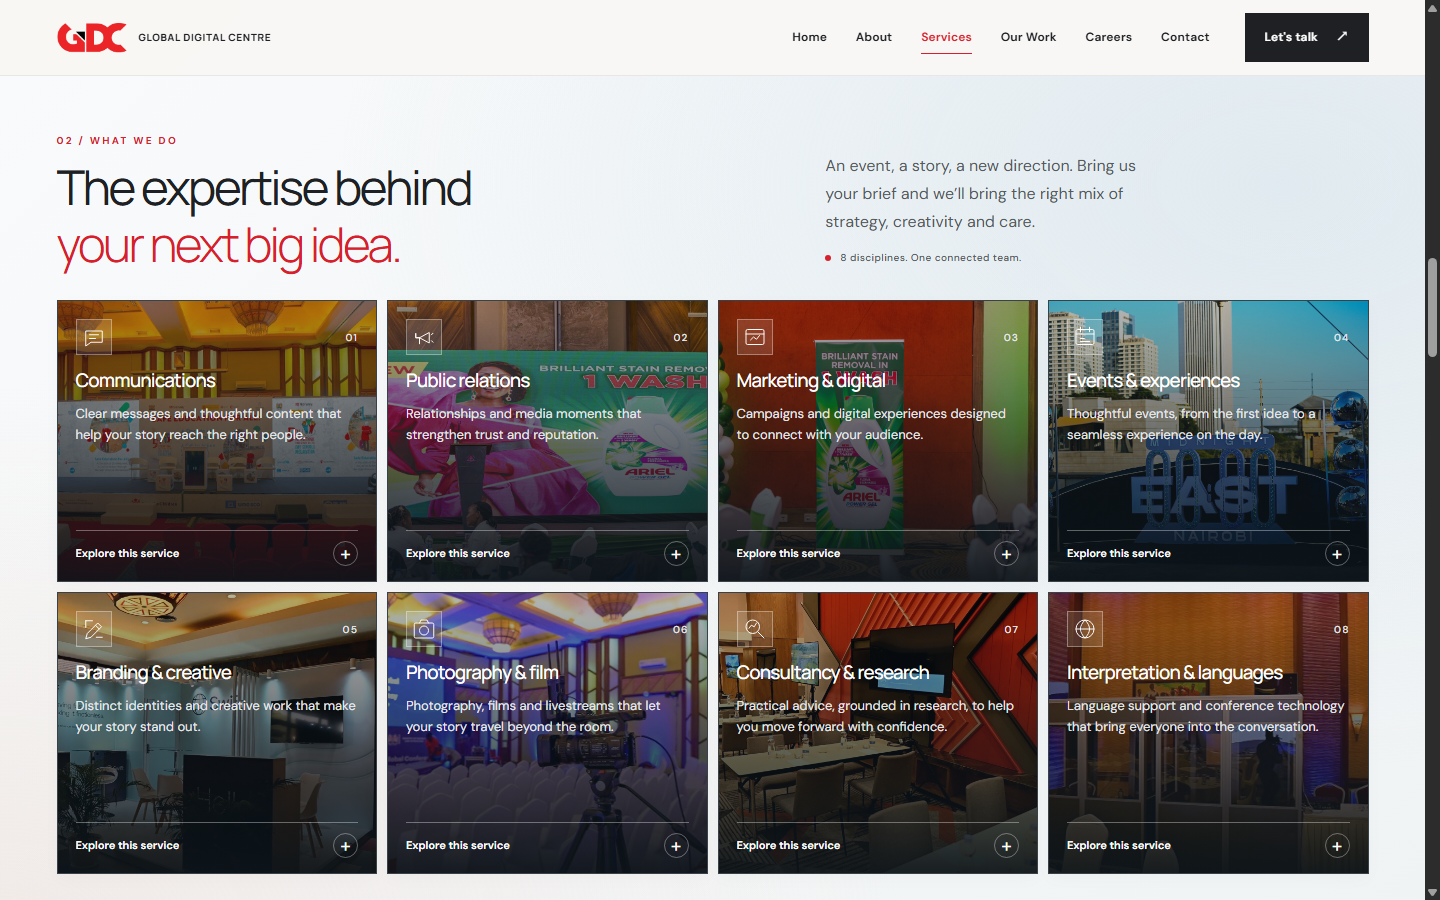
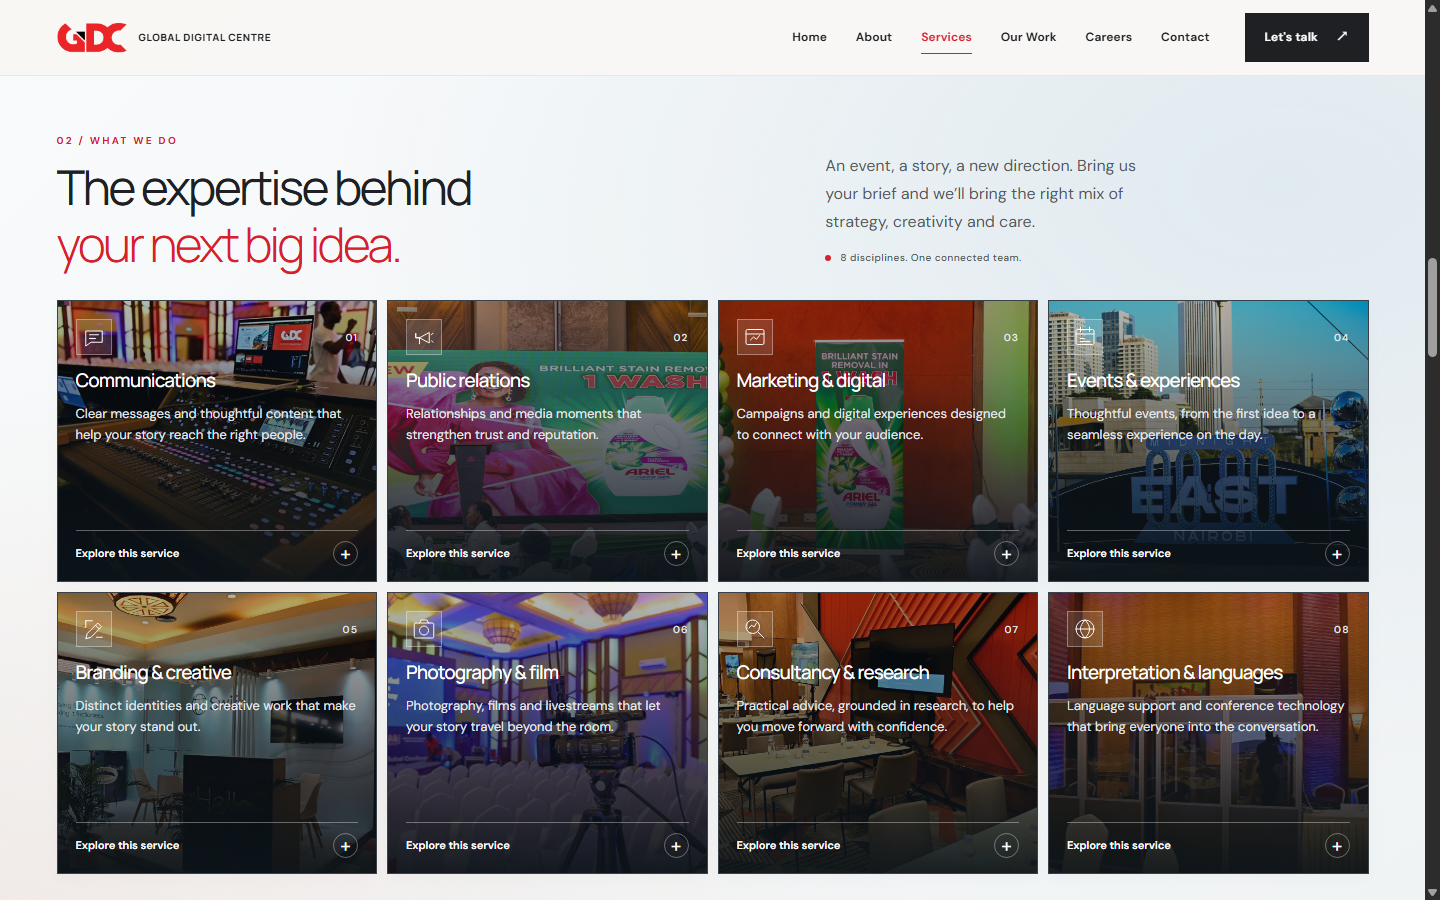
Use About inset photo for Communications

Changed region(s): [[0.0312, 0.3111, 0.2812, 0.6222]]

diff --git a/index.html b/index.html
@@ -49,7 +49,7 @@
   <section class="hero" aria-labelledby="hero-title">
     <div class="hero-stage is-collage-active" data-hero-player>
       <div class="hero-backdrop" aria-hidden="true">
-        <div class="hero-collage hero-slide is-active"><div class="hero-collage-tile"><img src="assets/media/projects/safeschools/gallery-1.jpg" alt="" width="900" height="506" loading="eager" decoding="async"><span class="hero-collage-label">Communications</span></div><div class="hero-collage-tile"><img src="assets/media/projects/ariel/client-cover.jpg" alt="" width="900" height="506" loading="eager" decoding="async"><span class="hero-collage-label">Public Relations</span></div><div class="hero-collage-tile"><img src="assets/media/projects/swift/gallery-4.webp" alt="" width="900" height="506" loading="eager" decoding="async"><span class="hero-collage-label">Marketing</span></div><div class="hero-collage-tile"><img src="assets/media/projects/shanila/cover.jpg" alt="" width="900" height="506" loading="eager" decoding="async"><span class="hero-collage-label">Events</span></div></div>
+        <div class="hero-collage hero-slide is-active"><div class="hero-collage-tile"><img src="assets/media/about/production-console.jpg" alt="" width="900" height="506" loading="eager" decoding="async"><span class="hero-collage-label">Communications</span></div><div class="hero-collage-tile"><img src="assets/media/projects/ariel/client-cover.jpg" alt="" width="900" height="506" loading="eager" decoding="async"><span class="hero-collage-label">Public Relations</span></div><div class="hero-collage-tile"><img src="assets/media/projects/swift/gallery-4.webp" alt="" width="900" height="506" loading="eager" decoding="async"><span class="hero-collage-label">Marketing</span></div><div class="hero-collage-tile"><img src="assets/media/projects/shanila/cover.jpg" alt="" width="900" height="506" loading="eager" decoding="async"><span class="hero-collage-label">Events</span></div></div>
         <video class="hero-video hero-slide" muted playsinline preload="none" poster="assets/media/hero/nssf.jpg" data-src="assets/media/hero/nssf.mp4" tabindex="-1"></video><video class="hero-video hero-slide" muted playsinline preload="none" poster="assets/media/hero/midnight-east.jpg" data-src="assets/media/hero/midnight-east.mp4" tabindex="-1"></video><video class="hero-video hero-slide" muted playsinline preload="none" poster="assets/media/hero/ariel.jpg" data-src="assets/media/hero/ariel.mp4" tabindex="-1"></video><video class="hero-video hero-slide" muted playsinline preload="none" poster="assets/media/hero/swift.jpg" data-src="assets/media/hero/swift.mp4" tabindex="-1"></video>
       </div>
       <div class="hero-overlay" aria-hidden="true"></div>
@@ -124,7 +124,7 @@ Then we should probably be working together. Let&#39;s create something remarkab
     <div class="container">
       <div class="section-intro services-intro"><div><p class="section-label">02 / WHAT WE DO</p><h2 class="section-heading" id="services-title">The expertise behind<br><em>your next big idea.</em></h2></div><div class="services-intro-copy"><p>An event, a story, a new direction. Bring us your brief and we’ll bring the right mix of strategy, creativity and care.</p><span class="services-team-note"><span aria-hidden="true"></span> 8 disciplines. One connected team.</span></div></div>
       <div class="services-grid"><article class="service-card service-card-with-image" id="service-communications" aria-labelledby="service-title-1">
-    <img class="service-card-photo" src="assets/media/projects/safeschools/gallery-1.jpg" alt="" aria-hidden="true" width="900" height="506" loading="lazy" decoding="async">
+    <img class="service-card-photo" src="assets/media/about/production-console.jpg" alt="" aria-hidden="true" width="900" height="506" loading="lazy" decoding="async">
     <div class="service-card-top"><span class="service-icon"><svg viewBox="0 0 32 32" fill="none" stroke="currentColor" stroke-width="1.3" stroke-linecap="round" stroke-linejoin="round" aria-hidden="true"><path d="M5 8h22v15H12l-7 5V8Z"/><path d="M10 13h12M10 18h8"/></svg></span><span class="service-number" aria-hidden="true">01</span></div>
     <h3 id="service-title-1">Communications</h3>
     <p class="service-summary">Clear messages and thoughtful content that help your story reach the right people.</p>

diff --git a/README.md b/README.md
@@ -19,7 +19,7 @@ Screenshots for quick review: [desktop home](previews/home-desktop.png), [mobile
 
 Case-study gallery thumbnails open an image viewer with next/previous controls, arrow-key navigation, and Escape to close. Project cards link to full case studies.
 
-The main home sections fill at least the available screen height below the navigation and grow when needed for smaller screens. The hero starts with a four-photo collage representing Communications, Public Relations, Marketing, and Events, using photos from the GDC project galleries. Copy and two CTAs sit on a white panel to the left on desktop; the collage stacks below the copy on mobile. The CTAs lead to Selected Work and Contact. Four silent project videos follow the collage. The client ribbon remains directly below the hero, with its existing pause/resume control. Review the [updated desktop hero](previews/client-update-desktop.png), [mobile hero](previews/client-update-mobile-verified.png), and [eight service cards](previews/client-update-services-verified.png).
+The main home sections fill at least the available screen height below the navigation and grow when needed for smaller screens. The hero starts with a labeled four-photo collage representing Communications, Public Relations, Marketing, and Events, using GDC work photos. Communications uses the small production-console photo from About. Copy and two CTAs sit on a white panel to the left on desktop; the collage stacks below the copy on mobile. The CTAs lead to Selected Work and Contact. Four silent project videos follow the collage. The client ribbon remains directly below the hero, with its existing pause/resume control. Review the [updated desktop hero](previews/client-update-desktop.png), [mobile hero](previews/client-update-mobile-verified.png), and [eight service cards](previews/client-update-services-verified.png).
 
 The opening collage advances after eight seconds, followed by the four videos, which rotate at the end of each 12-second clip. Visitors can select a slide or pause playback; playback also pauses when the hero leaves the screen or the browser tab is hidden. Reduced-motion and data-saving preferences start on the collage with an explicit Play button. A missing video keeps its poster and advances to the next selection. Without JavaScript, the collage and both CTAs remain visible.
 

diff --git a/assets/media/services/README.md b/assets/media/services/README.md
@@ -1,6 +1,6 @@
 # Services imagery
 
-These six optimized WebP images were used by an earlier service-card layout. The current eight service cards reference GDC project-gallery photos directly through `content/site.json`. Each WebP here is 900×506; together they total about 371 KB.
+These six optimized WebP images were used by an earlier service-card layout. The current eight service cards reference GDC work photos through `content/site.json`; Communications uses the small production-console photo from About. Each WebP here is 900×506; together they total about 371 KB.
 
 | Service | Asset | Original project image |
 | --- | --- | --- |
